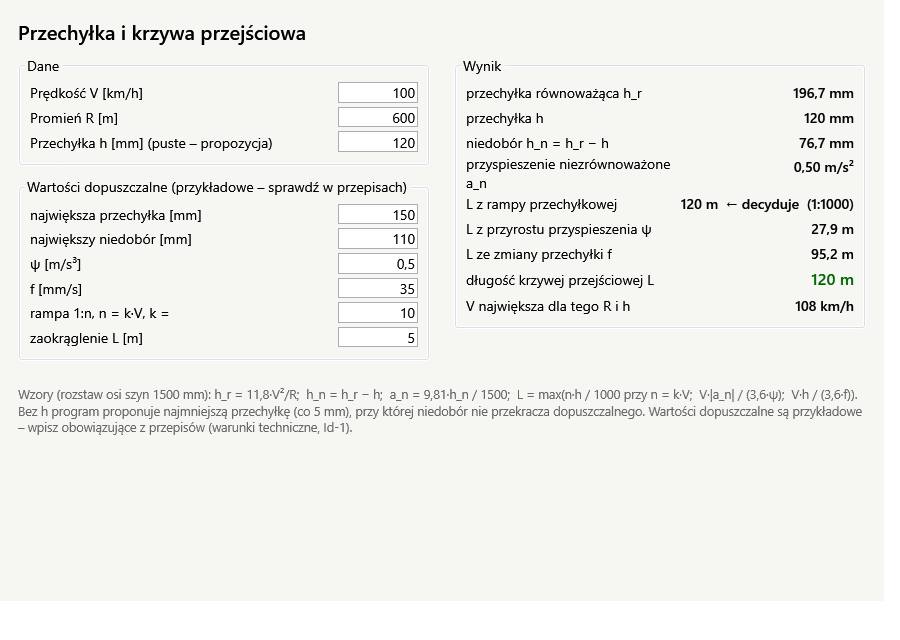
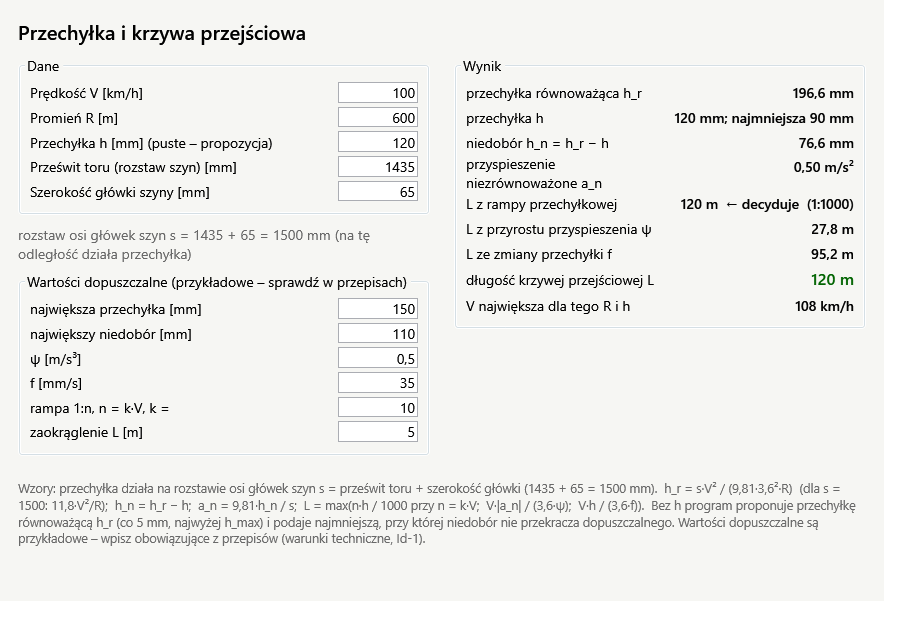
Kalkulator przechyłki: prześwit 1435 mm jawnie, propozycja h = przechyłka równoważąca
- Prześwit toru (1435 mm) i szerokość główki (65 mm) w polach; wzory liczą z rozstawu
  osi główek s = 1435 + 65 = 1500 mm (h_r = s·V²/(9,81·3,6²·R), a_n = 9,81·h_n/s)
  zamiast ukrytej stałej 1500 i mylącego opisu.
- Bez h proponowana przechyłka równoważąca (co 5 mm, ≤ h_max), najmniejsza dopuszczalna obok.
- Test: 0 błędów.

diff --git a/app/Lcs.Przechylka/MainWindow.cs b/app/Lcs.Przechylka/MainWindow.cs
@@ -12,6 +12,8 @@ namespace Lcs.Przechylka;
 public class MainWindow : Window
 {
     public readonly TextBox VBox = Box("100", "Prędkość V [km/h]"), RBox = Box("600", "Promień łuku R [m]"), HBox = Box("", "Przechyłka zastosowana h [mm] – puste: propozycja programu");
+    readonly TextBox gauge = Box("1435", "Prześwit toru (rozstaw szyn) [mm] – normalnotorowy 1435"), head = Box("65", "Szerokość główki szyny [mm] – rozstaw osi główek s = prześwit + główka");
+    readonly TextBlock sText = new() { Foreground = Brushes.DimGray, Margin = new Thickness(0, 0, 0, 8), TextWrapping = TextWrapping.Wrap };
     readonly TextBox hMax = Box("150", "Największa przechyłka [mm]"), hnMax = Box("110", "Największy niedobór przechyłki [mm]"),
         psi = Box("0,5", "Szybkość przyrostu przyspieszenia niezrównoważonego ψ [m/s³]"), f = Box("35", "Szybkość zmiany przechyłki f [mm/s]"),
         nk = Box("10", "Pochylenie rampy przechyłkowej 1:n, n = k·V – współczynnik k"), rnd = Box("5", "Zaokrąglenie długości w górę [m]");
@@ -35,7 +37,9 @@ public class MainWindow : Window
         cols.ColumnDefinitions.Add(new ColumnDefinition { Width = new GridLength(1, GridUnitType.Star) });
 
         var left = new StackPanel();
-        left.Children.Add(Group("Dane", ("Prędkość V [km/h]", VBox), ("Promień R [m]", RBox), ("Przechyłka h [mm] (puste – propozycja)", HBox)));
+        left.Children.Add(Group("Dane", ("Prędkość V [km/h]", VBox), ("Promień R [m]", RBox), ("Przechyłka h [mm] (puste – propozycja)", HBox),
+            ("Prześwit toru (rozstaw szyn) [mm]", gauge), ("Szerokość główki szyny [mm]", head)));
+        left.Children.Add(sText);
         left.Children.Add(Group("Wartości dopuszczalne (przykładowe – sprawdź w przepisach)",
             ("największa przechyłka [mm]", hMax), ("największy niedobór [mm]", hnMax), ("ψ [m/s³]", psi), ("f [mm/s]", f), ("rampa 1:n, n = k·V, k =", nk), ("zaokrąglenie L [m]", rnd)));
         Grid.SetColumn(left, 0); cols.Children.Add(left);
@@ -49,13 +53,13 @@ public class MainWindow : Window
 
         root.Children.Add(new TextBlock
         {
-            Text = "Wzory (rozstaw osi szyn 1500 mm): h_r = 11,8·V²/R;  h_n = h_r − h;  a_n = 9,81·h_n / 1500;  L = max(n·h / 1000 przy n = k·V;  V·|a_n| / (3,6·ψ);  V·h / (3,6·f)).  " +
-                   "Bez h program proponuje najmniejszą przechyłkę (co 5 mm), przy której niedobór nie przekracza dopuszczalnego. Wartości dopuszczalne są przykładowe – wpisz obowiązujące z przepisów (warunki techniczne, Id-1).",
+            Text = "Wzory: przechyłka działa na rozstawie osi główek szyn s = prześwit toru + szerokość główki (1435 + 65 = 1500 mm).  h_r = s·V² / (9,81·3,6²·R)  (dla s = 1500: 11,8·V²/R);  h_n = h_r − h;  a_n = 9,81·h_n / s;  L = max(n·h / 1000 przy n = k·V;  V·|a_n| / (3,6·ψ);  V·h / (3,6·f)).  " +
+                   "Bez h program proponuje przechyłkę równoważącą h_r (co 5 mm, najwyżej h_max) i podaje najmniejszą, przy której niedobór nie przekracza dopuszczalnego. Wartości dopuszczalne są przykładowe – wpisz obowiązujące z przepisów (warunki techniczne, Id-1).",
             TextWrapping = TextWrapping.Wrap, Foreground = Brushes.DimGray, FontSize = 12.5, Margin = new Thickness(0, 14, 0, 0),
         });
         Content = new ScrollViewer { Content = root, VerticalScrollBarVisibility = ScrollBarVisibility.Auto };
 
-        foreach (var b in new[] { VBox, RBox, HBox, hMax, hnMax, psi, f, nk, rnd }) b.TextChanged += (s, e) => Licz();
+        foreach (var b in new[] { VBox, RBox, HBox, gauge, head, hMax, hnMax, psi, f, nk, rnd }) b.TextChanged += (s, e) => Licz();
         Licz();
     }
 
@@ -91,11 +95,13 @@ public class MainWindow : Window
         if (HBox.Text.Trim().Length > 0 && h == null) { foreach (var t in all) t.Text = "–"; uwagi.Text = "Przechyłka h: liczba w mm albo puste pole."; return; }
         var d = new Dopuszczalne
         {
+            Gauge = Num(gauge) ?? 1435, Head = Num(head) ?? 65,
             HMax = Num(hMax) ?? 150, HnMax = Num(hnMax) ?? 110, Psi = Num(psi) ?? 0.5, F = Num(f) ?? 35, NFactor = Num(nk) ?? 10, Round = Num(rnd) ?? 5,
         };
         var w = Obliczenia.Licz(v, r, h, d);
+        sText.Text = $"rozstaw osi główek szyn s = {F(d.Gauge, "0")} + {F(d.Head, "0")} = {F(d.S, "0")} mm (na tę odległość działa przechyłka)";
         HrText.Text = $"{F(w.Hr)} mm";
-        HText.Text = $"{F(w.H)} mm" + (w.HProponowana ? " (propozycja)" : "");
+        HText.Text = $"{F(w.H)} mm" + (w.HProponowana ? " (propozycja = h_r)" : "") + $"; najmniejsza {F(w.HMin)} mm";
         HnText.Text = w.Hn >= 0 ? $"{F(w.Hn)} mm" : $"nadmiar {F(-w.Hn)} mm";
         AnText.Text = $"{F(w.An, "0.00")} m/s²";
         string Mark(double l, string name) => $"{F(l)} m" + (w.Decyduje == name ? "  ← decyduje" : "");

diff --git a/app/Lcs.Przechylka/Obliczenia.cs b/app/Lcs.Przechylka/Obliczenia.cs
@@ -18,43 +18,51 @@ public class Dopuszczalne
     public double NFactor { get; set; } = 10;
     /// <summary>Zaokrąglenie długości w górę [m].</summary>
     public double Round { get; set; } = 5;
+    /// <summary>Prześwit toru (rozstaw szyn) [mm] – normalnotorowy 1435.</summary>
+    public double Gauge { get; set; } = 1435;
+    /// <summary>Szerokość główki szyny [mm] – rozstaw osi główek s = prześwit + główka.</summary>
+    public double Head { get; set; } = 65;
+    /// <summary>Rozstaw osi główek szyn s [mm] – na tę odległość działa przechyłka (1435 + 65 = 1500).</summary>
+    public double S => Gauge + Head;
 }
 
 /// <summary>Wynik obliczeń przechyłki i długości krzywej przejściowej.</summary>
 public record Wynik(
-    double Hr, double H, bool HProponowana, double Hn, double An,
+    double Hr, double H, bool HProponowana, double HMin, double Hn, double An,
     double LRampa, double LPsi, double LF, double L, string Decyduje,
     double VMax, List<string> Uwagi);
 
 /// <summary>
-/// Przechyłka i krzywa przejściowa (rozstaw osi szyn 1500 mm):
-/// h_r = 11,8·V²/R [mm]; niedobór h_n = h_r − h; a_n = 9,81·h_n / 1500 [m/s²];
+/// Przechyłka i krzywa przejściowa. Prześwit toru 1435 mm; przechyłka działa na rozstawie osi główek szyn s = 1435 + 65 = 1500 mm:
+/// h_r = s·V² / (g·3,6²·R) [mm] (dla s = 1500: 11,8·V²/R); niedobór h_n = h_r − h; a_n = g·h_n / s [m/s²];
 /// L = max(L_rampa = n·h / 1000, n = k·V; L_ψ = V·|a_n| / (3,6·ψ); L_f = V·h / (3,6·f)), zaokrąglone w górę.
-/// Bez podanej h – proponowana najmniejsza przechyłka, przy której niedobór nie przekracza dopuszczalnego (co 5 mm).
+/// Bez podanej h – proponowana przechyłka równoważąca h_r zaokrąglona do 5 mm (najwyżej h_max); dodatkowo podawana najmniejsza
+/// przechyłka, przy której niedobór nie przekracza dopuszczalnego.
 /// </summary>
 public static class Obliczenia
 {
-    public const double S = 1500, G = 9.81;
+    public const double G = 9.81;
 
-    public static double Hr(double v, double r) => 11.8 * v * v / r;
+    public static double Hr(double v, double r, double s = 1500) => s * v * v / (G * 3.6 * 3.6 * r);
 
     public static Wynik Licz(double v, double r, double? hZad, Dopuszczalne d)
     {
         var uwagi = new List<string>();
-        double hr = Hr(v, r);
+        double hr = Hr(v, r, d.S);
         bool prop = hZad == null;
-        double h = hZad ?? Math.Ceiling(Math.Max(0, hr - d.HnMax) / 5) * 5;
-        if (prop && h > d.HMax) { uwagi.Add($"promień za mały dla {v:0} km/h – nawet przy h = {d.HMax:0} mm niedobór przekracza {d.HnMax:0} mm"); h = d.HMax; }
+        double hmin = Math.Ceiling(Math.Max(0, hr - d.HnMax) / 5) * 5;
+        double h = hZad ?? Math.Min(Math.Round(hr / 5) * 5, d.HMax);
+        if (hmin > d.HMax) uwagi.Add($"promień za mały dla {v:0} km/h – nawet przy h = {d.HMax:0} mm niedobór przekracza {d.HnMax:0} mm");
         if (!prop && h > d.HMax) uwagi.Add($"przechyłka {h:0} mm większa od dopuszczalnej {d.HMax:0} mm");
         double hn = hr - h;
         if (hn > d.HnMax + 1e-9) uwagi.Add($"niedobór przechyłki {hn:0} mm większy od dopuszczalnego {d.HnMax:0} mm");
         if (hn < 0) uwagi.Add($"nadmiar przechyłki {-hn:0} mm (h większa od równoważącej)");
-        double an = G * hn / S;
+        double an = G * hn / d.S;
         double lr = d.NFactor * v * h / 1000, lp = d.Psi > 0 ? v * Math.Abs(an) / (3.6 * d.Psi) : 0, lf = d.F > 0 ? v * h / (3.6 * d.F) : 0;
         double lmax = Math.Max(lr, Math.Max(lp, lf));
         string dec = lmax == lr ? "rampa przechyłkowa" : lmax == lp ? "przyrost przyspieszenia ψ" : "zmiana przechyłki f";
         double l = d.Round > 0 ? Math.Ceiling(lmax / d.Round - 1e-9) * d.Round : lmax;
-        double vmax = Math.Sqrt((Math.Min(h, d.HMax) + d.HnMax) * r / 11.8);
-        return new Wynik(hr, h, prop, hn, an, lr, lp, lf, l, dec, vmax, uwagi);
+        double vmax = Math.Sqrt((Math.Min(h, d.HMax) + d.HnMax) * r * G * 3.6 * 3.6 / d.S);
+        return new Wynik(hr, h, prop, Math.Min(hmin, d.HMax), hn, an, lr, lp, lf, l, dec, vmax, uwagi);
     }
 }

diff --git a/app/Lcs.Przechylka/Program.cs b/app/Lcs.Przechylka/Program.cs
@@ -45,12 +45,15 @@ static class Test
         var log = new System.Text.StringBuilder(); int err = 0;
         void Ok(bool c, string what) { log.AppendLine((c ? "OK    " : "BŁĄD  ") + what); if (!c) err++; }
         var d = new Dopuszczalne();
+        Ok(d.Gauge == 1435 && d.S == 1500 && Math.Abs(Obliczenia.Hr(100, 600, d.S) - 11.8 * 100 * 100 / 600) < 0.2, $"prześwit 1435 mm, rozstaw osi główek s = {d.S:0} mm, h_r ze wzoru = 11,8·V²/R (±0,2 mm)");
         var r = Obliczenia.Licz(100, 600, 120, d);
-        Ok(Math.Abs(r.Hr - 196.67) < 0.01 && Math.Abs(r.Hn - 76.67) < 0.01, $"V 100, R 600: h_r = {r.Hr:0.00} mm, przy h 120 niedobór {r.Hn:0.00} mm");
-        Ok(Math.Abs(r.LRampa - 120) < 1e-9 && Math.Abs(r.LF - 95.24) < 0.01 && Math.Abs(r.LPsi - 27.86) < 0.01 && r.L == 120 && r.Decyduje == "rampa przechyłkowa",
+        Ok(Math.Abs(r.Hr - 196.64) < 0.01 && Math.Abs(r.Hn - 76.64) < 0.01, $"V 100, R 600: h_r = {r.Hr:0.00} mm, przy h 120 niedobór {r.Hn:0.00} mm");
+        Ok(Math.Abs(r.LRampa - 120) < 1e-9 && Math.Abs(r.LF - 95.24) < 0.01 && Math.Abs(r.LPsi - 27.85) < 0.02 && r.L == 120 && r.Decyduje == "rampa przechyłkowa",
             $"L: rampa {r.LRampa:0.0}, ψ {r.LPsi:0.0}, f {r.LF:0.0} → L = {r.L:0} m (rampa)");
         var p = Obliczenia.Licz(100, 600, null, d);
-        Ok(p.HProponowana && p.H == 90 && p.Hn <= d.HnMax, $"bez h – proponowana {p.H:0} mm (niedobór {p.Hn:0.0} ≤ {d.HnMax:0})");
+        Ok(p.HProponowana && p.H == 150 && p.HMin == 90, $"bez h – propozycja h_r 196,7 → {p.H:0} mm (ograniczona do h_max), najmniejsza {p.HMin:0} mm");
+        var p80 = Obliczenia.Licz(80, 1000, null, d);
+        Ok(p80.H == 75 && p80.HMin == 0 && p80.L == 60, $"V 80, R 1000 bez h – propozycja {p80.H:0} mm (h_r 75,5), najmniejsza {p80.HMin:0} mm, L = {p80.L:0} m");
         var z = Obliczenia.Licz(160, 300, null, d);
         Ok(z.H == d.HMax && z.Uwagi.Any(u => u.Contains("promień za mały")), "R 300 przy 160 km/h – uwaga „promień za mały”");
         var n = Obliczenia.Licz(40, 1000, 100, d);
@@ -59,7 +62,7 @@ static class Test
         w.VBox.Text = "100"; w.RBox.Text = "600"; w.HBox.Text = "120";
         Ok(w.LText.Text.StartsWith("120"), $"okno: V 100, R 600, h 120 → „{w.LText.Text}”");
         w.HBox.Text = "";
-        Ok(w.HText.Text.Contains("90"), $"okno: puste h – propozycja „{w.HText.Text}”");
+        Ok(w.HText.Text.StartsWith("150") && w.HText.Text.Contains("najmniejsza 90"), $"okno: puste h – propozycja „{w.HText.Text}”");
         w.RBox.Text = "abc";
         Ok(w.LText.Text.Length == 0 || w.LText.Text == "–", "okno: zły promień – brak wyniku");
         w.RBox.Text = "600"; w.HBox.Text = "120";

diff --git a/README.md b/README.md
@@ -84,7 +84,9 @@ Przycisk **„Plan stacji”** otwiera osobne okno z planem schematycznym całeg
 
 Osobny program: `uruchom_przechylka.bat` albo `app/Lcs.Przechylka/bin/Release/net8.0-windows/Przechylka.exe`. Wpisujesz prędkość V, promień R i przechyłkę h. Puste h oznacza, że program sam zaproponuje najmniejszą przechyłkę, przy której niedobór nie przekracza dopuszczalnego.
 
-Program podaje przechyłkę równoważącą h_r = 11,8·V²/R, niedobór h_n, przyspieszenie niezrównoważone a_n i długość krzywej przejściowej L. L to największa z trzech wartości: z rampy przechyłkowej (1:n, n = k·V), z przyrostu przyspieszenia ψ i ze zmiany przechyłki f. Program pokazuje, który warunek decyduje, oraz największą prędkość dla danego R i h. Wartości dopuszczalne (h_max, niedobór, ψ, f, k) są w polach do zmiany. Domyślne są przykładowe, więc wpisz obowiązujące z przepisów. Test: `Przechylka.exe --test wynik.txt [zrzut.png]`.
+Prześwit toru jest w polu i wynosi domyślnie 1435 mm. Przechyłka działa na rozstawie osi główek szyn s = prześwit + szerokość główki (1435 + 65 = 1500 mm), z którego bierze się znany współczynnik 11,8. Bez h program proponuje przechyłkę równoważącą (co 5 mm, najwyżej h_max) i podaje najmniejszą dopuszczalną.
+
+Program podaje przechyłkę równoważącą h_r = s·V²/(9,81·3,6²·R) (≈ 11,8·V²/R), niedobór h_n, przyspieszenie niezrównoważone a_n i długość krzywej przejściowej L. L to największa z trzech wartości: z rampy przechyłkowej (1:n, n = k·V), z przyrostu przyspieszenia ψ i ze zmiany przechyłki f. Program pokazuje, który warunek decyduje, oraz największą prędkość dla danego R i h. Wartości dopuszczalne (h_max, niedobór, ψ, f, k) są w polach do zmiany. Domyślne są przykładowe, więc wpisz obowiązujące z przepisów. Test: `Przechylka.exe --test wynik.txt [zrzut.png]`.
 
 ## Edytor układu torowego (UT)
 

diff --git a/ROZWOJ.md b/ROZWOJ.md
@@ -217,6 +217,8 @@ Decyzja właściciela (2026-10-16): edytory UT i zobrazowania budujemy od nowa j
 
 **ZROBIONE 2026-10-17 – kalkulator przechyłki** (prośba właściciela: „prosty kalkulator jako nowy program do przechyłki”): osobny program `app/Lcs.Przechylka` (`Przechylka.exe`, `uruchom_przechylka.bat`), WPF. Dane: V, R, h (puste – propozycja: najmniejsza przechyłka co 5 mm przy niedoborze ≤ dopuszczalnego). Wynik na żywo: h_r = 11,8·V²/R, h_n, a_n = 9,81·h_n/1500, L = max(rampa n·h/1000 przy n = k·V; V·|a_n|/(3,6·ψ); V·h/(3,6·f)) zaokrąglone w górę, warunek decydujący, V największa dla R i h; uwagi (promień za mały, przekroczona przechyłka / niedobór, nadmiar). **Wartości dopuszczalne domyślne są przykładowe** (h_max 150, niedobór 110, ψ 0,5, f 35, k 10) – nie ma ich w `Zrodla`; do potwierdzenia przez właściciela z przepisów. Test `--test`: V 100 / R 600 / h 120 → L 120 m (rampa), propozycja h 90 mm, uwagi – 0 błędów. Zrzut: `zrzuty/Przechylka.png`. Później: wpięcie do edytora UT (pole L przy łuku z kalkulatora).
 
+**Poprawki kalkulatora (2026-10-17):** propozycja h = przechyłka równoważąca h_r (co 5 mm, ≤ h_max) zamiast najmniejszej (przy V 80 / R 1000 wychodziło 0 mm), najmniejsza dopuszczalna podawana obok; prześwit toru 1435 mm i szerokość główki 65 mm w polach, wzory liczą z rozstawu osi główek s = 1435 + 65 = 1500 mm (dawniej ukryta stała 1500 i opis „rozstaw osi szyn 1500 mm” – właściciel: „rozstaw szyn 1435!”).
+
 **Następny krok:** etap 5, część 2 – odcinki kontroli niezajętości (nazwy, granice z liczników osi / złączy, „Sprawdź”), wskaźniki W4 / W5, perony, przejazdy, kilometraż
 
 **Z dawnego etapu 1 – dotyczy symulatora (zostaje):**
